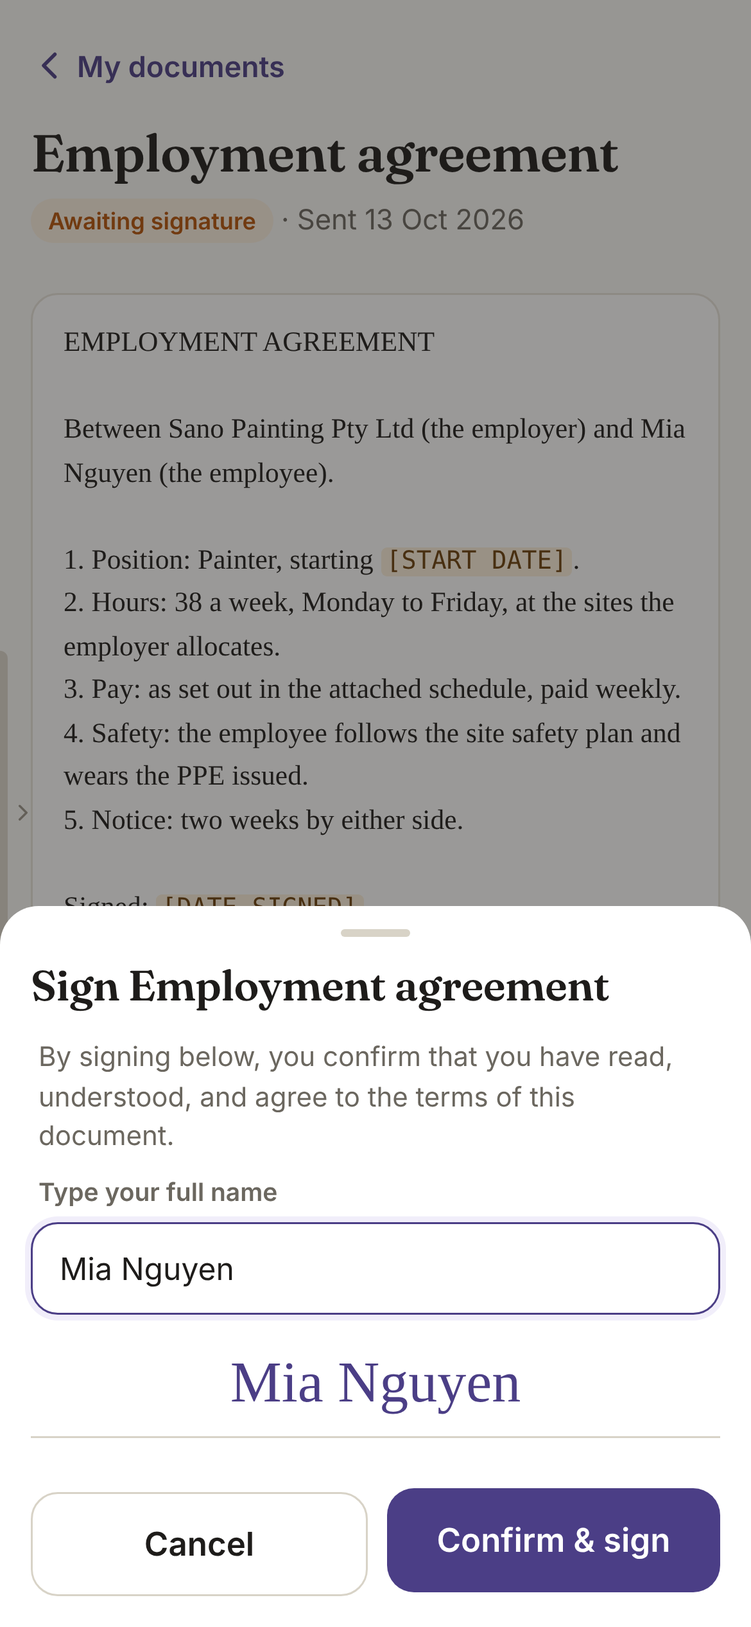
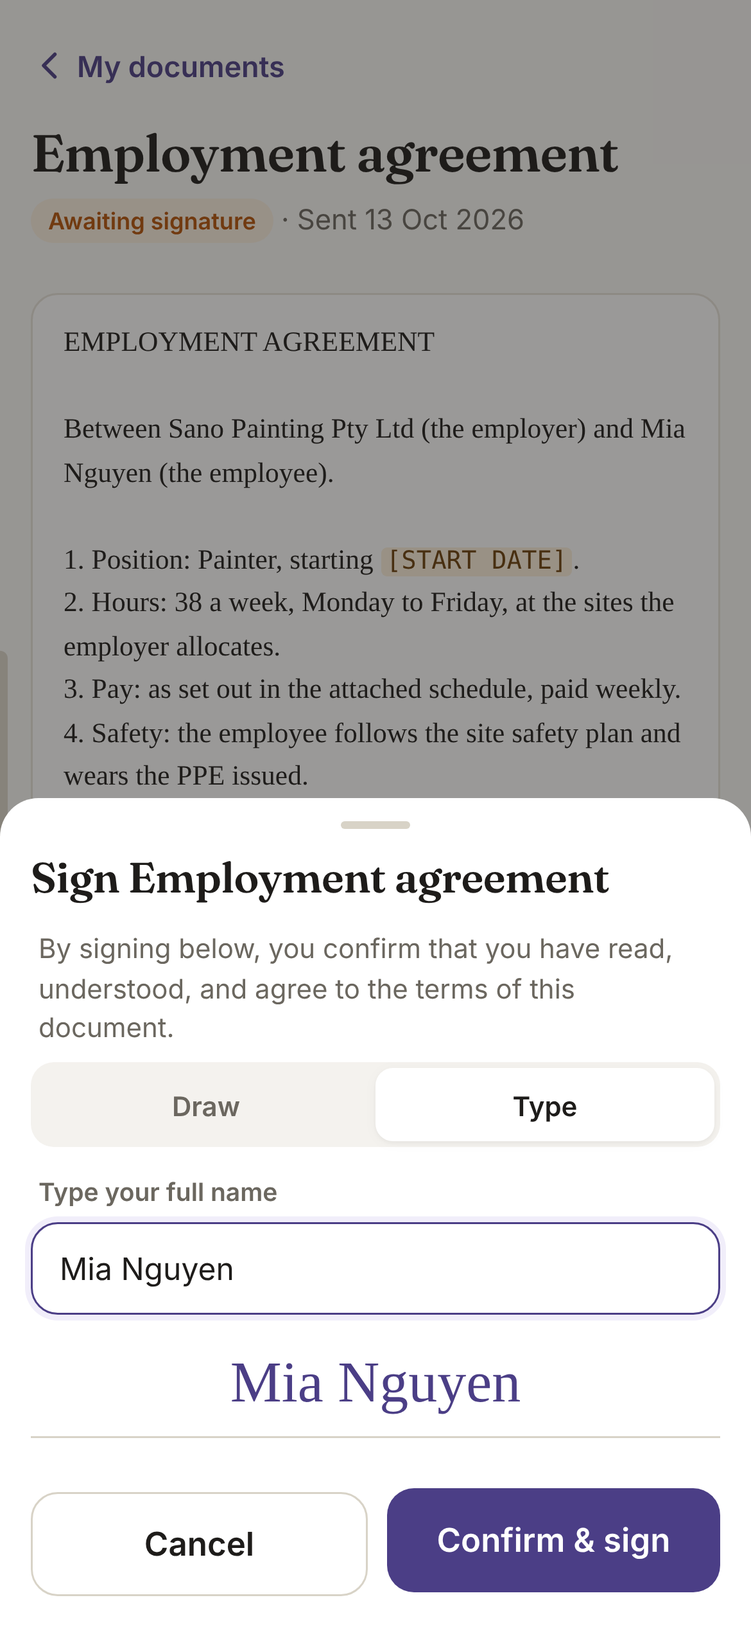
C9 prototype: sign by drawing (Draw first, Type stays), what prints on the signed copy, the quote copy-protected; 636/636
Claude-Session: https://claude.ai/code/session_01HpZojkjji8RgUnjdAETzSX

Changed region(s): [[0.0, 0.468, 1.0, 0.7176], [0.8308, 0.624, 0.8923, 0.6552]]

diff --git a/c1-crew-shell.html b/c1-crew-shell.html
@@ -548,6 +548,24 @@ table.pitems tr.area td{font-weight:700;padding-top:10px}
 .mail-body .small{font-size:13.5px;color:var(--text-secondary)}
 .mono{font-family:ui-monospace,Menlo,Consolas,monospace;letter-spacing:.02em}
 .mail-foot{font-size:12.5px;color:var(--text-muted);border-top:1px solid var(--border);margin-top:14px;padding-top:10px;line-height:1.45}
+
+/* ---- C9: the quote cannot be selected, copied or printed; the sign sheet draws; what prints on the signed copy ---- */
+#s-quote .paper, #s-quote .paper *{-webkit-user-select:none;user-select:none;-webkit-touch-callout:none}
+@media print{#s-quote .paper, #s-quote [data-testid="crew-quote-note"]{display:none !important}}
+.sigpad{position:relative;border:1px solid var(--border-strong);border-radius:12px;background:#fff;overflow:hidden}
+.sigpad canvas{display:block;width:100%;height:150px;touch-action:none;cursor:crosshair}
+.sigpad .sig-line{position:absolute;left:16px;right:16px;bottom:36px;border-bottom:1px solid var(--border-strong);pointer-events:none}
+.sigpad .sig-hint{position:absolute;left:0;right:0;bottom:10px;text-align:center;font-size:12.5px;color:var(--text-muted);pointer-events:none}
+.sigpad .sig-clear{position:absolute;top:0;right:0;height:44px;padding:0 14px;font-size:14px;font-weight:600;color:var(--accent)}
+.pdfprev{background:#fff;border:1px solid var(--border);border-radius:6px;box-shadow:var(--shadow-card);padding:16px;color:#222;font-family:Helvetica,Arial,sans-serif;font-size:12px;line-height:1.5}
+.pdfprev .pp-biz{font-size:16px;font-weight:700}
+.pdfprev .pp-sub{font-size:10.5px;color:#555;border-bottom:2px solid #333;padding-bottom:7px;margin-bottom:12px}
+.pdfprev .pp-h1{font-size:14.5px;font-weight:700;margin-bottom:8px}
+.pdfprev .pp-text{font-family:Georgia,serif;font-size:11.5px;white-space:pre-wrap;color:#333}
+.pdfprev .pp-cols{display:flex;gap:12px;border-top:1px solid #999;margin-top:14px;padding-top:10px;font-size:11px}
+.pdfprev .pp-col{flex:1;min-width:0}
+.pdfprev .pp-sig{display:block;max-width:150px;width:100%;height:50px;object-fit:contain;object-position:left bottom;margin-bottom:4px}
+.pdfprev .pp-foot{margin-top:14px;font-size:10px;color:#777}
 </style>
 </head>
 <body>
@@ -908,6 +926,16 @@ table.pitems tr.area td{font-weight:700;padding-top:10px}
       <div class="meta" id="mailMeta" data-testid="crew-mail-meta"></div>
     </div>
     <div class="form-body" id="mailBody" data-testid="crew-mail-body" style="padding-top:4px"></div>
+  </section>
+
+  <!-- ================= C9: WHAT PRINTS ON THE SIGNED COPY (prototype-only preview of the PDF's signature block) ================= -->
+  <section id="s-pdfprev" class="hide" data-testid="crew-pdfprev" style="flex:1;display:flex;flex-direction:column;min-height:0">
+    <div class="jobhdr">
+      <div class="row2"><button class="back" id="pdfBack" data-testid="crew-pdfprev-back"><svg><use href="#i-back"/></svg>My documents</button></div>
+      <div class="job-title">What prints on the signed copy</div>
+      <div class="meta" id="pdfMeta" data-testid="crew-pdfprev-meta"></div>
+    </div>
+    <div class="form-body" id="pdfBody" data-testid="crew-pdfprev-body" style="padding-top:4px"></div>
   </section>
 
   <!-- ================= C5: PROFILE (stack) ================= -->
@@ -1665,7 +1693,7 @@ table.pitems tr.area td{font-weight:700;padding-top:10px}
     { id: 'd3', name: 'Safety agreement', status: 'ended', sent: '2026-05-01', signed: '2026-05-02', countersigned: '2026-05-02', ended: '2026-09-30', content: 'SAFETY AGREEMENT\n\nReplaced by the site safety plan of 30 Sep 2026.' },
   ];
   const cStatus = (c) => c.status === 'sent' ? { cls: 'wait', txt: 'Awaiting signature' } : c.status === 'signed' ? { cls: 'live', txt: 'Signed' } : { cls: 'ended', txt: 'Ended' };
-  function hideC5(){ ['#s-onb', '#s-profile', '#s-docs', '#s-doc', '#s-reset', '#s-notice', '#s-terms', '#s-quote', '#s-pin', '#s-mail', '#s-feedback', '#s-events', '#s-training', '#s-video', '#s-coaching', '#s-going', '#s-rating', '#s-equip', '#s-item'].forEach(x => $(x).classList.add('hide')); }
+  function hideC5(){ ['#s-onb', '#s-profile', '#s-docs', '#s-doc', '#s-reset', '#s-notice', '#s-terms', '#s-quote', '#s-pin', '#s-mail', '#s-pdfprev', '#s-feedback', '#s-events', '#s-training', '#s-video', '#s-coaching', '#s-going', '#s-rating', '#s-equip', '#s-item'].forEach(x => $(x).classList.add('hide')); }
   function stackOpen(id){ $('#s-app').classList.add('hide'); $('#s-login').classList.add('hide'); hideC5(); $(id).classList.remove('hide'); const b = $(id + ' .form-body'); if (b) b.scrollTop = 0; }
   const MARK = $('#s-login .mark').innerHTML;
   $('#pinLogin .mark').innerHTML = MARK; $('#pinMark').innerHTML = MARK;
@@ -1902,15 +1930,54 @@ table.pitems tr.area td{font-weight:700;padding-top:10px}
   }
   function openDoc(id){ const c = contracts.find(x => x.id === id); if (!c) return; stackOpen('#s-doc'); renderDoc(c); document.body.dataset.lastGo = '/employee/contracts/' + id; }
   function closeDoc(){ $('#s-doc').classList.add('hide'); openDocs(); }
-  const sig = { id: '', text: '', err: '' };
+  // C9 — sign by drawing (the pad the client signs the quote with), or by typing the name as before. PUT /employee-contracts/{id}/sign {signature_data, signature_type: 'drawn' | 'typed'} — the route takes both today.
+  const sig = { id: '', mode: 'draw', text: '', err: '', has: false };
+  const sigErrHtml = () => sig.err ? `<div class="err" data-testid="crew-sign-err" role="alert">${esc(sig.err)}</div>` : '';
   function renderSign(){
     const c = contracts.find(x => x.id === sig.id);
     $('#signTitle').textContent = 'Sign ' + c.name;
-    $('#signBody').innerHTML = `<div class="hint" style="margin:0 4px 10px;font-size:14px;color:var(--text-secondary)">By signing below, you confirm that you have read, understood, and agree to the terms of this document.</div><div class="fld"><label for="sigIn">Type your full name</label><input id="sigIn" data-testid="crew-sign-input" class="tin ${sig.err ? 'bad' : ''}" value="${esc(sig.text)}" autocomplete="name" autocapitalize="words">${sig.err ? `<div class="err" data-testid="crew-sign-err">${esc(sig.err)}</div>` : ''}</div><div class="sigprev" data-testid="crew-sign-preview">${esc(sig.text)}</div>`;
+    const seg = `<div class="seg" data-testid="crew-sign-mode" role="tablist"><button class="${sig.mode === 'draw' ? 'on' : ''}" data-sigmode="draw" data-testid="crew-sign-mode-draw" role="tab" aria-selected="${sig.mode === 'draw'}">Draw</button><button class="${sig.mode === 'type' ? 'on' : ''}" data-sigmode="type" data-testid="crew-sign-mode-type" role="tab" aria-selected="${sig.mode === 'type'}">Type</button></div>`;
+    const draw = `<div class="sigpad" data-testid="crew-sign-pad-box"><canvas id="sigPad" data-testid="crew-sign-pad" aria-label="Draw your signature"></canvas><div class="sig-line"></div><div class="sig-hint" id="sigHint" data-testid="crew-sign-pad-hint">Sign here with your finger</div><button class="sig-clear" id="sigClear" data-testid="crew-sign-clear">Clear</button></div>`;
+    const type = `<div class="fld"><label for="sigIn">Type your full name</label><input id="sigIn" data-testid="crew-sign-input" class="tin ${sig.err ? 'bad' : ''}" value="${esc(sig.text)}" autocomplete="name" autocapitalize="words"></div><div class="sigprev" data-testid="crew-sign-preview">${esc(sig.text)}</div>`;
+    $('#signBody').innerHTML = `<div class="hint" style="margin:0 4px 4px;font-size:14px;color:var(--text-secondary)">By signing below, you confirm that you have read, understood, and agree to the terms of this document.</div>${seg}${sig.mode === 'draw' ? draw : type}<div id="sigErrBox">${sigErrHtml()}</div>`;
+    if (sig.mode === 'draw') bindPad();
   }
-  function openSign(id){ sig.id = id; sig.text = ''; sig.err = ''; renderSign(); $('#signSheet').classList.remove('hide'); }
+  function bindPad(){
+    const c = $('#sigPad'); c.width = Math.max(2, Math.round(c.clientWidth * 2)); c.height = Math.max(2, Math.round(c.clientHeight * 2));
+    const ctx = c.getContext('2d'); ctx.lineWidth = 5; ctx.lineCap = 'round'; ctx.lineJoin = 'round'; ctx.strokeStyle = '#1E1C1A';
+    let down = false; sig.has = false;
+    const pos = (e) => { const r = c.getBoundingClientRect(); return { x: (e.clientX - r.left) * c.width / r.width, y: (e.clientY - r.top) * c.height / r.height }; };
+    c.addEventListener('pointerdown', (e) => { down = true; try { c.setPointerCapture(e.pointerId); } catch (_) {} const p = pos(e); ctx.beginPath(); ctx.moveTo(p.x, p.y); e.preventDefault(); e.stopPropagation(); });   // a stroke is never an edge swipe
+    c.addEventListener('pointermove', (e) => { if (!down) return; const p = pos(e); ctx.lineTo(p.x, p.y); ctx.stroke(); if (!sig.has) { sig.has = true; $('#sigHint').classList.add('hide'); if (sig.err) { sig.err = ''; $('#sigErrBox').innerHTML = ''; } } e.preventDefault(); e.stopPropagation(); });
+    const up = () => { down = false; };
+    c.addEventListener('pointerup', up); c.addEventListener('pointercancel', up);
+    $('#sigClear').addEventListener('click', () => { ctx.clearRect(0, 0, c.width, c.height); sig.has = false; $('#sigHint').classList.remove('hide'); });
+  }
+  function openSign(id){ Object.assign(sig, { id, mode: 'draw', text: '', err: '', has: false }); $('#signSheet').classList.remove('hide'); renderSign(); }
   function closeSign(){ $('#signSheet').classList.add('hide'); }
-  function confirmSign(){ if (!sig.text.trim()) { sig.err = 'Type your full name to sign.'; renderSign(); return; } const c = contracts.find(x => x.id === sig.id); c.status = 'signed'; c.signed = '2026-10-14'; closeSign(); renderDoc(c); renderDocs(); }
+  function confirmSign(){
+    const c = contracts.find(x => x.id === sig.id);
+    if (sig.mode === 'draw') { if (!sig.has) { sig.err = 'Draw your signature to sign.'; $('#sigErrBox').innerHTML = sigErrHtml(); return; } c.sigType = 'drawn'; c.sigData = $('#sigPad').toDataURL('image/png'); }
+    else { if (!sig.text.trim()) { sig.err = 'Type your full name to sign.'; renderSign(); return; } c.sigType = 'typed'; c.sigName = sig.text.trim(); }
+    c.status = 'signed'; c.signed = '2026-10-14'; document.body.dataset.lastGo = `PUT /employee-contracts/${c.id}/sign ${c.sigType}`; closeSign(); renderDoc(c); renderDocs();
+  }
+  $('#signBody').addEventListener('click', (e) => { const b = e.target.closest('[data-sigmode]'); if (!b || b.dataset.sigmode === sig.mode) return; sig.mode = b.dataset.sigmode; sig.err = ''; renderSign(); });
+
+  // C9 — what prints on the signed copy (the contract PDF's signature block): the drawn image above the crew member's name, the way the owner's prints.
+  const SQUIGGLE = (d) => `<svg class="pp-sig" viewBox="0 0 150 50" aria-hidden="true"><path d="${d}" fill="none" stroke="#1E1C1A" stroke-width="2" stroke-linecap="round" stroke-linejoin="round"/></svg>`;
+  function openPdfPrev(id, forced){
+    const c = contracts.find(x => x.id === id) || contracts[0]; if (!c) return;
+    const kind = forced || c.sigType || 'typed';
+    const crewSig = kind === 'drawn' ? (c.sigData ? `<img class="pp-sig" src="${c.sigData}" alt="" data-testid="crew-pdfprev-crew-sig">` : SQUIGGLE('M6 34 C 16 6, 26 46, 38 24 S 56 8, 66 30 S 84 44, 96 20 S 118 14, 128 30 L 144 22').replace('<svg class="pp-sig"', '<svg class="pp-sig" data-testid="crew-pdfprev-crew-sig"')) : '';
+    stackOpen('#s-pdfprev');
+    $('#pdfMeta').textContent = `${c.name} · signed ${kind === 'drawn' ? 'by drawing' : 'by typing'}`;
+    $('#pdfBody').innerHTML = `<div class="pdfprev" data-testid="crew-pdfprev-page"><div class="pp-biz">${esc(BIZ)}</div><div class="pp-sub">ABN 12 345 678 901 · 4 Example St, Brunswick VIC 3056</div><div class="pp-h1">${esc(c.name)}</div><div class="pp-text">${esc(c.content.split('\n').slice(0, 4).join('\n'))}\n…</div>
+      <div class="pp-cols"><div class="pp-col" data-testid="crew-pdfprev-crew">${crewSig}<b>Mia Nguyen</b><br>Signed (${kind} in the crew app)<br>14 Oct 2026, 9:12 am<br>IP 203.0.113.24</div><div class="pp-col" data-testid="crew-pdfprev-owner">${SQUIGGLE('M8 30 C 22 4, 30 44, 46 22 S 74 40, 88 18 S 112 36, 142 14')}<b>For ${esc(BIZ)}: Josh Sano</b><br>Countersigned<br>15 Oct 2026, 8:03 am</div></div>
+      <div class="pp-foot">Template v3 · Document 4F2A91C0 · Paint Trade HQ record</div></div>
+      <div class="hint" style="margin:12px 4px 0" data-testid="crew-pdfprev-note">${kind === 'drawn' ? 'New: the drawn signature prints above the name, the way the owner’s does.' : 'A typed signature prints the name alone, as today.'}</div>`;
+    document.body.dataset.lastGo = 'pdf-preview:' + kind;
+  }
+  $('#pdfBack').addEventListener('click', () => { $('#s-pdfprev').classList.add('hide'); openDocs(); });
 
   function openPhotoSheet(ctx){ ds.ctx = ctx; $('#photoSheet').classList.remove('hide'); }
   function closePhotoSheet(){ $('#photoSheet').classList.add('hide'); }
@@ -2207,6 +2274,8 @@ table.pitems tr.area td{font-weight:700;padding-top:10px}
     const thanks = `<div class="pthanks" data-testid="crew-quote-foot"><div class="big">${esc(Q.thanks || 'Thank you for the opportunity to quote.')}</div><div class="sub">Questions? ${[B.phone ? 'Call ' + B.phone : '', B.email ? 'email ' + B.email : ''].filter(Boolean).join(' or ') || 'reach out anytime'}.</div></div>`;
     $('#quoteBody').innerHTML = `<div class="paper" data-testid="crew-quote-paper">${hero}${about}${info}${table('WHAT WE WILL DO', work)}${materials}${optional}${products}${terms}${thanks}</div><div class="qfoot" data-testid="crew-quote-note">The client's copy also carries the prices, the total and the payment terms.</div>`;
   }
+  // C9 — the quote is the owner's document: the paper cannot be selected, copied, dragged out or printed (a deterrent; a photo of the screen is still possible).
+  ['copy', 'cut', 'contextmenu', 'dragstart', 'selectstart'].forEach((ev) => $('#s-quote').addEventListener(ev, (e) => { const el = e.target && e.target.nodeType === 1 ? e.target : (e.target && e.target.parentElement); if (el && el.closest('.paper')) { e.preventDefault(); document.body.dataset.lastBlocked = ev; } }));
   function openQuote(id){ qu.job = id; hideC5(); $('#s-app').classList.add('hide'); $('#s-job').classList.add('hide'); $('#s-quote').classList.remove('hide'); renderQuote(); $('#quoteBody').scrollTop = 0; document.body.dataset.lastGo = '/employee/project/' + id + '/quote'; }
   $('#quoteBack').addEventListener('click', () => { $('#s-quote').classList.add('hide'); openJob(qu.job); });
 
@@ -2356,6 +2425,7 @@ table.pitems tr.area td{font-weight:700;padding-top:10px}
   else if (q.get('screen') === 'events') { showApp('me'); openEvents(); }
   else if (q.get('screen') === 'profile') { showApp('me'); openProfile(); }
   else if (q.get('screen') === 'docs') { showApp('me'); openDocs(); }
+  else if (q.get('screen') === 'contract-pdf') { showApp('me'); openPdfPrev(q.get('id') || 'd1', q.get('sig') || null); }
   else if (q.get('screen') === 'reset') { openReset(q.get('from') || 'login', q.get('email') || (q.get('step') ? 'mia@example.com' : '')); const st = parseInt(q.get('step') || '1', 10); if (st > 1) { rs.step = st; renderReset(); } }
   else if (q.get('screen') === 'training') { showApp('ops'); openTraining(); }
   else if (q.get('screen') === 'video') { showApp('learn'); openVideo(q.get('id') || 'v3', q.get('from') || 'training'); }

diff --git a/tools/test_c1.js b/tools/test_c1.js
@@ -506,6 +506,18 @@ async function run(b, W, H, tag) {
   ok('…the quote shows no photos either way (they live on the job page)' + full, (await p.locator('#quoteBody .ph').count()) === 0 && (await p.locator(T('crew-quote-line')).count()) === 8);
   await p.goto(U + '?screen=job&id=j2'); await p.waitForTimeout(300);
   ok('a job with a bare quote: the skeleton on the job page — 1 area, 3 lines, no summary, no chevrons; the quote row still there' + full, /1 area · 3 lines/.test(await txt(T('crew-job-work'))) && (await p.locator(T('crew-scope-area')).count()) === 1 && (await p.locator(T('crew-scope-line')).count()) === 3 && (await p.locator(T('crew-scope-summary')).count()) === 0 && (await p.locator(T('crew-scope-line') + ' .chev').count()) === 0 && await p.locator(T('crew-job-quote')).isVisible());
+  // ---- C9: the quote is copy-protected ----
+  await p.goto(U + '?screen=quote&id=j1'); await p.waitForTimeout(300);
+  const us = (sel) => p.evaluate((q2) => { const e = document.querySelector(q2); const c = getComputedStyle(e); return c.userSelect || c.webkitUserSelect; }, sel);
+  ok('quote: nothing on the paper can be selected (a line, a term, the business block)' + full, (await us(T('crew-quote-line'))) === 'none' && (await us('#s-quote .pterm')) === 'none' && (await us('#s-quote .phero')) === 'none');
+  const blocked = (ev) => p.evaluate((name) => { const el = document.querySelector('#s-quote .pterm'); const e = new Event(name, { bubbles: true, cancelable: true }); el.dispatchEvent(e); return e.defaultPrevented; }, ev);
+  ok('quote: copy, cut, the long-press menu and dragging are refused on the paper' + full, (await blocked('copy')) && (await blocked('cut')) && (await blocked('contextmenu')) && (await blocked('dragstart')));
+  ok('quote: select-all picks up none of the quote\'s words' + full, await p.evaluate(() => { const s2 = getSelection(); s2.removeAllRanges(); s2.selectAllChildren(document.querySelector('#s-quote .paper')); const got = s2.toString(); s2.removeAllRanges(); return !/Terms|WHAT WE WILL DO|Sano Painting/i.test(got); }));
+  await p.emulateMedia({ media: 'print' });
+  ok('quote: printing the page shows none of the paper' + full, !(await p.locator('#s-quote .paper').isVisible()));
+  await p.emulateMedia({ media: 'screen' });
+  await p.goto(U + '?screen=job&id=j1'); await p.waitForTimeout(300);
+  ok('…the job page stays selectable (addresses, paint names): the protection is the quote\'s alone' + full, (await us(T('crew-job-work'))) !== 'none' && !(await p.evaluate(() => { const el = document.querySelector('[data-testid="crew-job-work"]'); const e = new Event('copy', { bubbles: true, cancelable: true }); el.dispatchEvent(e); return e.defaultPrevented; })));
   await p.goto(U + '?screen=quote&id=j2'); await p.waitForTimeout(300);
   ok('…its quote: Q-0047 "sent", one area, three lines, no About us, no materials, no optional extras, no terms, the thank-you; never blank' + full, /Q-0047/.test(await txt(T('crew-quote-meta'))) && /sent/i.test(await txt('.ppill')) && (await p.locator(T('crew-quote-area')).count()) === 1 && (await p.locator(T('crew-quote-line')).count()) === 3 && (await p.locator('.pabout').count()) === 0 && (await p.locator(T('crew-quote-material')).count()) === 0 && (await p.locator(T('crew-quote-optional')).count()) === 0 && (await p.locator('.pterm').count()) === 0 && /Thank you/.test(await txt(T('crew-quote-foot'))));
   await p.goto(U + '?screen=scope&id=j1'); await p.waitForTimeout(300);
@@ -726,17 +738,44 @@ async function run(b, W, H, tag) {
   await p.fill(T('crew-contract-question-input'), 'Is the start date flexible?'); await p.click(T('crew-contract-question-send')); await p.waitForTimeout(150);
   ok('document: a sent question shows the confirmation line and keeps the Sign bar' + full, /went to your employer/.test(await txt(T('crew-contract-question-sent'))) && await p.locator(T('crew-contract-sign')).isVisible());
   await p.screenshot({ path: OUT + `c5-doc-sent-${tag}.png` });
-  await p.click(T('crew-contract-sign')); await p.waitForTimeout(150);
-  ok('sign sheet: the sentence, the name field and the preview' + full, await p.locator(T('crew-sign')).isVisible() && /read, understood, and agree/.test(await txt('#signBody')) && await p.locator(T('crew-sign-input')).isVisible());
+  // ---- C9: the sign sheet draws first; typing stays as the other way ----
+  await p.click(T('crew-contract-sign')); await p.waitForTimeout(200);
+  const pad = await box(T('crew-sign-pad'));
+  ok('sign sheet: the sentence, Draw | Type with Draw first, the pad (150 px) with "Sign here with your finger" and Clear (44 px); no name field' + full, await p.locator(T('crew-sign')).isVisible() && /read, understood, and agree/.test(await txt('#signBody')) && (await p.locator(T('crew-sign-mode-draw')).getAttribute('aria-selected')) === 'true' && pad.height >= 148 && pad.width >= 300 && (await txt(T('crew-sign-pad-hint'))) === 'Sign here with your finger' && (await box(T('crew-sign-clear'))).height >= 44 && (await p.locator(T('crew-sign-input')).count()) === 0 && await noHScroll());
   await p.click(T('crew-sign-confirm')); await p.waitForTimeout(150);
-  ok('sign sheet: Confirm with no name shows the one line' + full, (await txt(T('crew-sign-err'))) === 'Type your full name to sign.');
-  await p.fill(T('crew-sign-input'), 'Mia Nguyen'); await p.waitForTimeout(100);
-  ok('sign sheet: the preview shows the typed name' + full, (await txt(T('crew-sign-preview'))) === 'Mia Nguyen');
-  await p.screenshot({ path: OUT + `c5-sign-${tag}.png` });
+  ok('sign sheet: Confirm with an empty pad shows the one line' + full, (await txt(T('crew-sign-err'))) === 'Draw your signature to sign.' && await p.locator(T('crew-sign')).isVisible());
+  const stroke = async (x0) => { await p.mouse.move(x0, pad.y + 90); await p.mouse.down(); await p.mouse.move(x0 + 60, pad.y + 40, { steps: 6 }); await p.mouse.move(x0 + 130, pad.y + 100, { steps: 6 }); await p.mouse.move(x0 + 200, pad.y + 60, { steps: 6 }); await p.mouse.up(); await p.waitForTimeout(120); };
+  await stroke(pad.x + 3);
+  const inked = () => p.evaluate(() => { const c = document.querySelector('#sigPad'); const d = c.getContext('2d').getImageData(0, 0, c.width, c.height).data; let n = 0; for (let i = 3; i < d.length; i += 4) if (d[i]) n++; return n; });
+  ok('drawing leaves ink, hides the hint and clears the line' + full, (await inked()) > 200 && !(await p.locator(T('crew-sign-pad-hint')).isVisible()) && (await p.locator(T('crew-sign-err')).count()) === 0);
+  ok('…a stroke that starts at the pad\'s left edge does not open the time clock panel' + full, !(await edgeVisible()));
+  await p.click(T('crew-sign-clear')); await p.waitForTimeout(100);
+  ok('Clear empties the pad and brings the hint back' + full, (await inked()) === 0 && await p.locator(T('crew-sign-pad-hint')).isVisible());
+  await stroke(pad.x + 40);
+  await p.screenshot({ path: OUT + `c9-sign-draw-${tag}.png` });
   await p.click(T('crew-sign-confirm')); await p.waitForTimeout(200);
-  ok('signed: the pill reads Signed, the Sign bar is gone, the copy line waits for the countersign' + full, /Signed/.test(await txt(T('crew-doc-meta'))) && !(await p.locator(T('crew-contract-sign')).isVisible()) && await p.locator(T('crew-contract-notready')).isVisible() && (await p.locator(T('crew-contract-question')).count()) === 0);
+  ok('signed by drawing: the request says drawn; the pill reads Signed, the Sign bar is gone, the copy line waits for the countersign' + full, (await go()) === 'PUT /employee-contracts/d1/sign drawn' && /Signed/.test(await txt(T('crew-doc-meta'))) && !(await p.locator(T('crew-contract-sign')).isVisible()) && await p.locator(T('crew-contract-notready')).isVisible() && (await p.locator(T('crew-contract-question')).count()) === 0);
   await p.click(T('crew-doc-back')); await p.waitForTimeout(150);
   ok('documents: after signing nothing is waiting' + full, (await txt(T('crew-docs-meta'))) === 'Nothing waiting for your signature');
+  // the typed way, on a fresh load
+  await p.goto(U + '?screen=doc&id=d1'); await p.waitForTimeout(300); await p.click(T('crew-contract-sign')); await p.waitForTimeout(150);
+  await p.click(T('crew-sign-mode-type')); await p.waitForTimeout(120);
+  ok('Type: the name field and the preview, no pad' + full, await p.locator(T('crew-sign-input')).isVisible() && (await p.locator(T('crew-sign-pad')).count()) === 0 && (await p.locator(T('crew-sign-mode-type')).getAttribute('aria-selected')) === 'true');
+  await p.click(T('crew-sign-confirm')); await p.waitForTimeout(150);
+  ok('Type: Confirm with no name shows the one line' + full, (await txt(T('crew-sign-err'))) === 'Type your full name to sign.');
+  await p.fill(T('crew-sign-input'), 'Mia Nguyen'); await p.waitForTimeout(100);
+  ok('Type: the preview shows the typed name' + full, (await txt(T('crew-sign-preview'))) === 'Mia Nguyen' && (await p.locator(T('crew-sign-err')).count()) === 0);
+  await p.screenshot({ path: OUT + `c5-sign-${tag}.png` });
+  await p.click(T('crew-sign-mode-draw')); await p.waitForTimeout(100); await p.click(T('crew-sign-mode-type')); await p.waitForTimeout(100);
+  ok('…switching to Draw and back keeps the typed name' + full, (await p.locator(T('crew-sign-input')).inputValue()) === 'Mia Nguyen');
+  await p.click(T('crew-sign-confirm')); await p.waitForTimeout(200);
+  ok('signed by typing: the request says typed; Signed' + full, (await go()) === 'PUT /employee-contracts/d1/sign typed' && /Signed/.test(await txt(T('crew-doc-meta'))));
+  // what prints on the signed copy
+  await p.goto(U + '?screen=contract-pdf&id=d1&sig=drawn'); await p.waitForTimeout(300);
+  ok('signed copy, drawn: the signature image above the name, "Signed (drawn in the crew app)", the time and the IP; the owner\'s on the right' + full, await p.locator(T('crew-pdfprev-crew-sig')).isVisible() && (await box(T('crew-pdfprev-crew-sig'))).y < (await p.locator(T('crew-pdfprev-crew') + ' b').boundingBox()).y && /Mia Nguyen\s*Signed \(drawn in the crew app\)\s*14 Oct 2026, 9:12 am\s*IP 203\.0\.113\.24/.test(await txt(T('crew-pdfprev-crew'))) && /For Sano Painting: Josh Sano\s*Countersigned/.test(await txt(T('crew-pdfprev-owner'))) && await noHScroll());
+  await p.screenshot({ path: OUT + `c9-pdf-drawn-${tag}.png` });
+  await p.goto(U + '?screen=contract-pdf&id=d1&sig=typed'); await p.waitForTimeout(300);
+  ok('signed copy, typed: the name alone, "Signed (typed in the crew app)", as today' + full, (await p.locator(T('crew-pdfprev-crew-sig')).count()) === 0 && /Signed \(typed in the crew app\)/.test(await txt(T('crew-pdfprev-crew'))));
   await p.goto(U + '?screen=doc&id=d2'); await p.waitForTimeout(300);
   ok('a countersigned document offers Download my signed copy' + full, await p.locator(T('crew-contract-download')).isVisible() && !(await p.locator(T('crew-contract-sign')).isVisible()));
   await p.click(T('crew-contract-download')); ok('Download → the share sheet on the phone' + full, (await go()) === 'share:d2');
